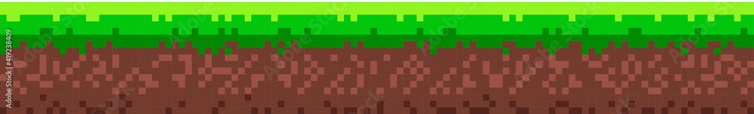
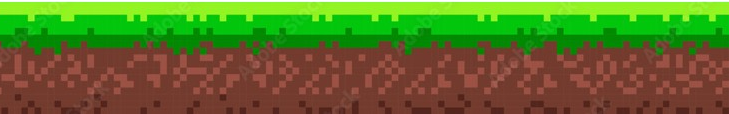
comitizinho ^^

diff --git a/dino/MainPage.xaml b/dino/MainPage.xaml
@@ -7,41 +7,47 @@
        <Grid>
               <HorizontalStackLayout x:Name="Layer1">
                      <Image Source="background.png"
-                            Aspect="AspectFit"
+                            Aspect="Fill"
                             HorizontalOptions="Fill"
                             VerticalOptions="Fill"/>
                      <Image Source="background.png"
-                            Aspect="AspectFit"
+                            Aspect="Fill"
                             HorizontalOptions="Fill"
                             VerticalOptions="Fill"/>
                      <Image Source="background.png"
-                            Aspect="AspectFit"
+                            Aspect="Fill"
                             HorizontalOptions="Fill"
                             VerticalOptions="Fill"/>
               </HorizontalStackLayout>
 
               <HorizontalStackLayout x:Name="Layer2">
                      <Image Source="predios.png"
+                            Aspect="Fill"
                             HorizontalOptions="End"
-                            VerticalOptions="End"/>
+                            VerticalOptions="Fill"/>
                      <Image Source="predios.png"
+                            Aspect="Fill"
                             HorizontalOptions="End"
-                            VerticalOptions="End"/>
+                            VerticalOptions="Fill"/>
                      <Image Source="predios.png"
+                            Aspect="Fill"
                             HorizontalOptions="End"
-                            VerticalOptions="End"/>
+                            VerticalOptions="Fill"/>
               </HorizontalStackLayout>
 
               <HorizontalStackLayout x:Name="Layer3">
                      <Image Source="chao.png"
+                            Aspect="AspectFill"
                             HorizontalOptions="End"
                             VerticalOptions="End"
                             HeightRequest="80"/>
                      <Image Source="chao.png"
+                            Aspect="AspectFill"
                             HorizontalOptions="End"
                             VerticalOptions="End"
                             HeightRequest="80"/>
                      <Image Source="chao.png"
+                            Aspect="AspectFill"
                             HorizontalOptions="End"
                             VerticalOptions="End"
                             HeightRequest="80"/>

diff --git a/dino/MainPage.xaml.cs b/dino/MainPage.xaml.cs
@@ -37,16 +37,40 @@ public partial class MainPage : ContentPage
 	}
 	void CorrigeTamanhoCenario (double w, double h)
 	{
-		foreaach (var A in Layer1.Children)
-		(A as Image).WidthRequest = w;
-		foreaach (var A in Layer2.Children)
-		(A as Image).WidthRequest = w;
-		foreaach (var A in Layer3.Children)
-		(A as Image).WidthRequest = w;
+		foreach (var a in Layer1.Children)
+		(a as Image).WidthRequest = w;
+		foreach (var a in Layer2.Children)
+		(a as Image).WidthRequest = w;
+		foreach (var a in Layer3.Children)
+		(a as Image).WidthRequest = w;
 		
 		Layer1.WidthRequest = w * 1.5;
 		Layer2.WidthRequest = w * 1.5;
 		Layer3.WidthRequest = w * 1.5;
+	}
+	void GerenciaCenarios()
+	{
+		MoveCenario();
+		GerenciaCenarios (Layer1);
+		GerenciaCenarios (Layer2);
+		GerenciaCenarios (Layer3);
+		
+	}
+	void MoveCenario()
+	{
+		Layer1.TranslationX -= velocidade1;
+		Layer2.TranslationX -= velocidade2;
+		Layer3.TranslationX -= velocidade3;
+	}
+	void GerenciaCenarios(HorizontalStackLayout horizontalStackLayout)
+	{
+		var view = (horizontalStackLayout.Children.First() as Image);
+		if (view.WidthRequest + horizontalStackLayout.TranslationX < 0)
+		{
+			horizontalStackLayout.Children.Remove(view);
+			horizontalStackLayout.Children.Add(view);
+			horizontalStackLayout.TranslationX = view.TranslationX;
+		}
 	}
 
 }
